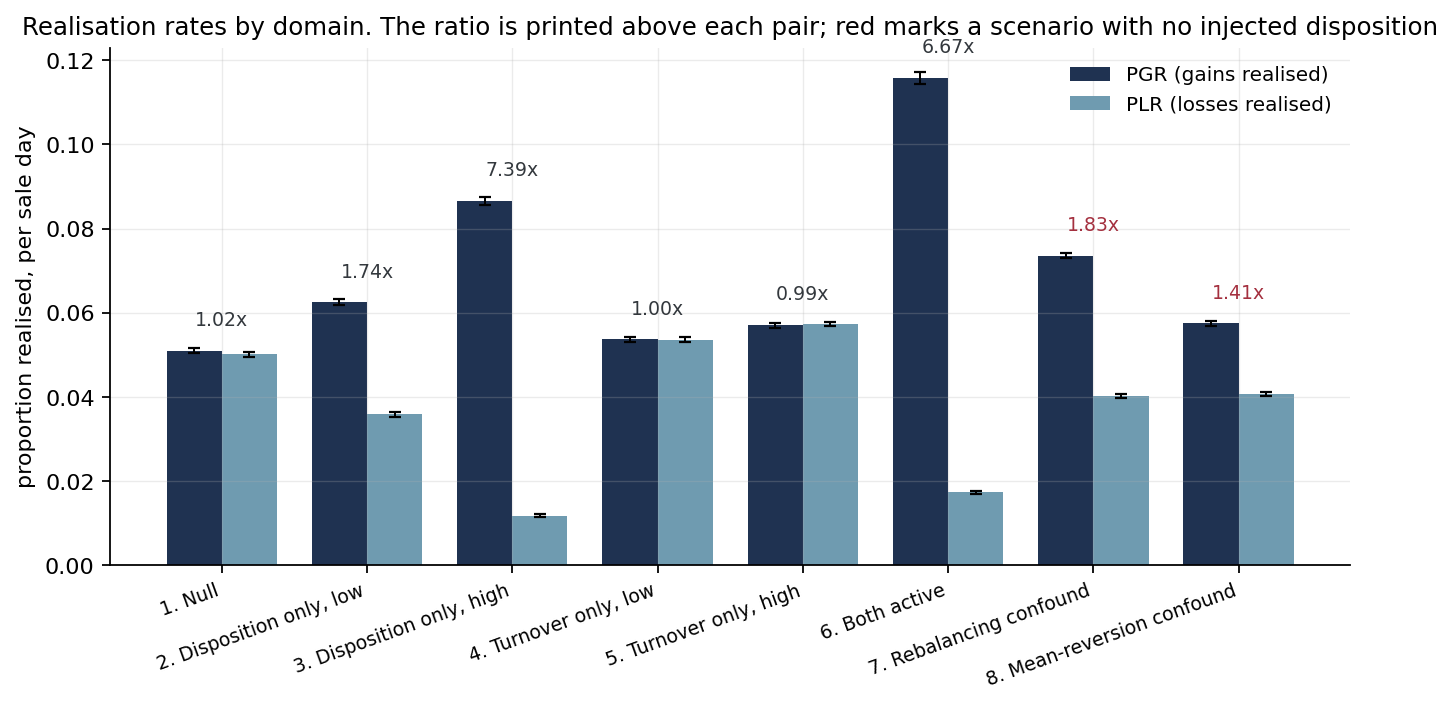
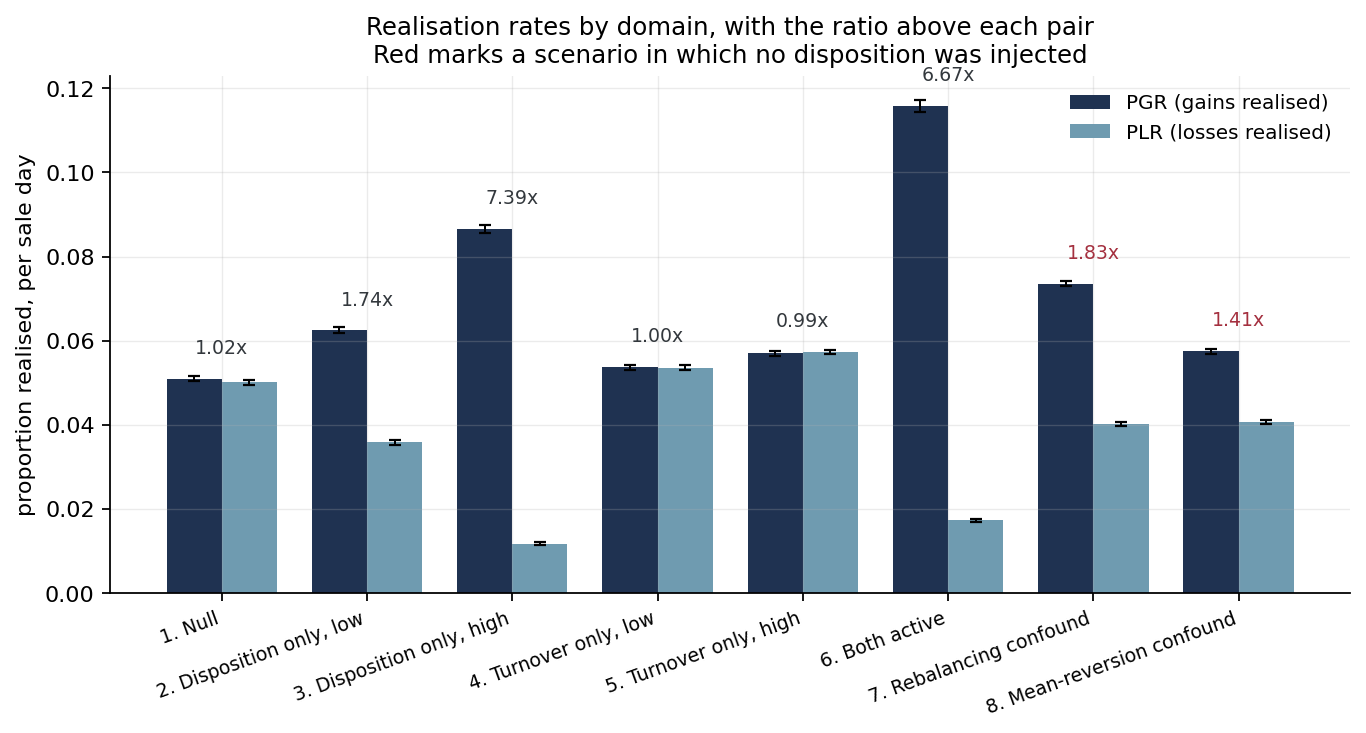
fix(figures): wrap the realisation-rate chart title so it clears the frame
Claude-Session: https://claude.ai/code/session_01UJ2BtaDZZTXgwZrQSocQUE

diff --git a/src/bfsim/figures.py b/src/bfsim/figures.py
@@ -46,8 +46,8 @@ def pgr_plr_bars(table, path=None):
     ax.set_xticklabels([f"{k}. {s}" for k, s in zip(table.index, table["Scenario"])],
                        rotation=20, ha="right", fontsize=8.5)
     ax.set_ylabel("proportion realised, per sale day")
-    ax.set_title("Realisation rates by domain. The ratio is printed above each pair; "
-                 "red marks a scenario with no injected disposition")
+    ax.set_title("Realisation rates by domain, with the ratio above each pair\n"
+                 "Red marks a scenario in which no disposition was injected")
     ax.legend(frameon=False, fontsize=9)
     return _save(fig, path)
 
